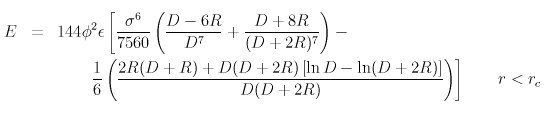
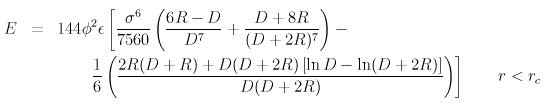
git-svn-id: svn://svn.icms.temple.edu/lammps-ro/trunk@5091 f3b2605a-c512-4ea7-a41b-209d697bcdaa

diff --git a/Eqs/fix_wall_colloid.tex b/Eqs/fix_wall_colloid.tex
@@ -4,7 +4,7 @@
 
 \begin{eqnarray}
 E &=& 144 \phi^2 \epsilon \left[ \frac{\sigma^{6}}{7560} 
-  \left(\frac{D-6R}{D^{7}} + \frac{D+8R}{(D+2R)^{7}} \right) - 
+  \left(\frac{6R-D}{D^{7}} + \frac{D+8R}{(D+2R)^{7}} \right) - 
   \frac{}{} \right. \nonumber \\
   &&\qquad \left. \frac{1}{6} \left(\frac{2R(D+R) + D(D+2R)
     \left[ \ln D - \ln (D+2R) \right]}{D(D+2R)} \right) \right] 
